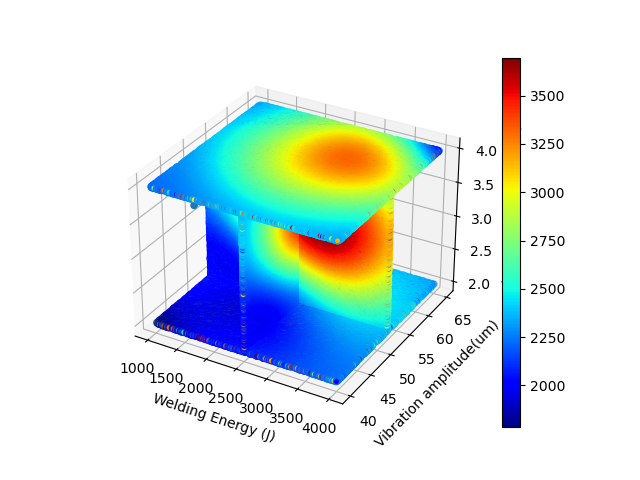
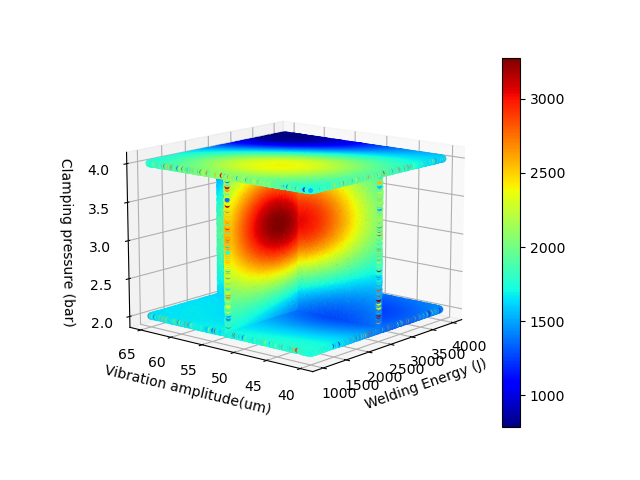
RandArray added to create random experiment data

diff --git a/RandArray.py b/RandArray.py
@@ -1,0 +1,58 @@
+import numpy as np
+import matplotlib.pyplot as plt
+from sklearn.svm import SVR
+import pandas as pd
+from sklearn.preprocessing import StandardScaler
+from bayesian_optimization import BayesianOptimization
+
+
+ten= np.sort(np.random.uniform(1500,1900,10))
+twenty = np.flip(np.sort(np.random.uniform(1900,1700,10)))
+thirty = np.sort(np.random.uniform(1700,2250,10))
+forty = np.flip(np.sort(np.random.uniform(2250,1600,10)))
+fifty = np.sort(np.random.uniform(1600,3200,10))
+sixty = np.flip(np.sort(np.random.uniform(3200,3100,10)))
+seventy = np.flip(np.sort(np.random.uniform(3100,800,10)))
+eighty = np.sort(np.random.uniform(800,1000,10))
+ninety = np.sort(np.random.uniform(1000,1320, 10))
+onehundred = np.flip(np.sort(np.random.uniform(1320, 200,10)))
+outputs = np.concatenate((ten,twenty,thirty,forty,fifty,sixty,seventy,eighty,ninety,onehundred))
+
+i = 0
+xarr = []
+yarr = []
+zarr = []
+
+while i <100:
+    x = np.random.uniform(1000,4000)
+    y = np.random.uniform(40,65)
+    z = np.random.uniform(2,4)
+
+    xarr.append(x)
+    yarr.append(y)
+    zarr.append(z)
+
+    i = i +1
+
+xarr = np.sort(xarr)
+yarr = np.sort(yarr)
+zarr = np.sort(zarr)
+inputs = np.array(list(zip(xarr,yarr,zarr)))
+inputs_outputs = np.array(list(zip(xarr,yarr,zarr, outputs)))
+print(inputs_outputs)
+
+np.savetxt('Inputs_outputs.csv', inputs_outputs, delimiter=',')
+data_arr= np.sort(np.random.uniform(1000,3000,100))
+
+
+
+datasets = pd.read_csv('ExperimentData.csv')
+X = inputs
+Y = outputs
+
+
+noise = np.random.normal(0,100,100)
+
+Y = Y+noise
+
+Y = Y.reshape(-1,1)

diff --git a/SVRegression.py b/SVRegression.py
@@ -4,11 +4,11 @@ from sklearn.svm import SVR
 import pandas as pd
 from sklearn.preprocessing import StandardScaler
 from bayesian_optimization import BayesianOptimization
-datasets = pd.read_csv('ExperimentData.csv')
+datasets = pd.read_csv('Inputs_outputs.csv')
 X = datasets.iloc[:, 0:3].values
 Y = datasets.iloc[:, 3].values
 
-noise = np.random.normal(0,100,100)
+noise = np.random.normal(0,100,99)
 
 Y = Y+noise
 
@@ -118,6 +118,7 @@ ax.scatter(xlist,ylist,zlist,marker='o')
 
 cv = np.array(cv)
 img = ax.scatter(a, b, j,c=cv, cmap=plt.jet())
+ax.view_init(elev=13., azim=-140)
 fig.colorbar(img)
 print('The maximum value observed on the plot was', max(cv))
 ax.set_xlabel('Welding Energy (J)')
